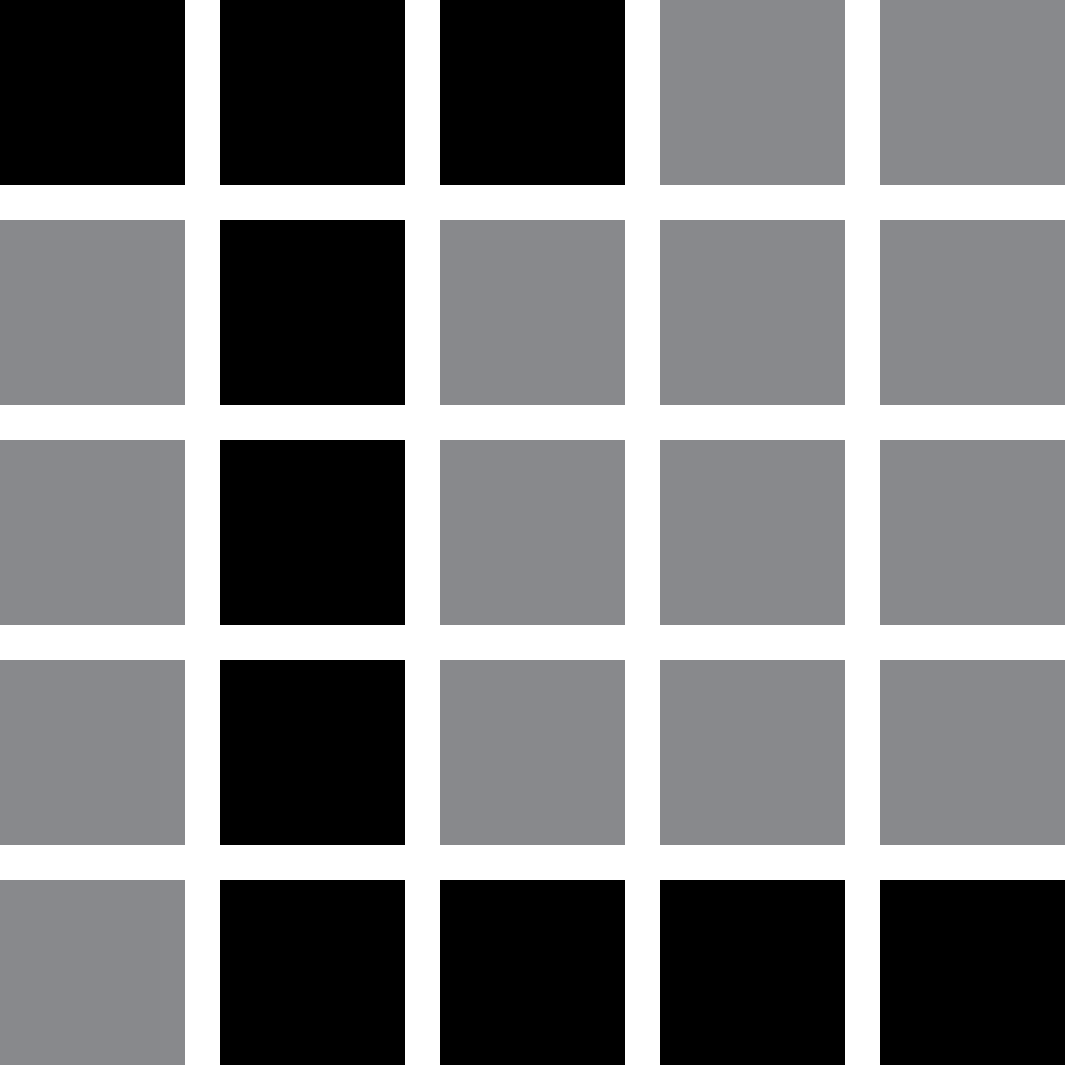
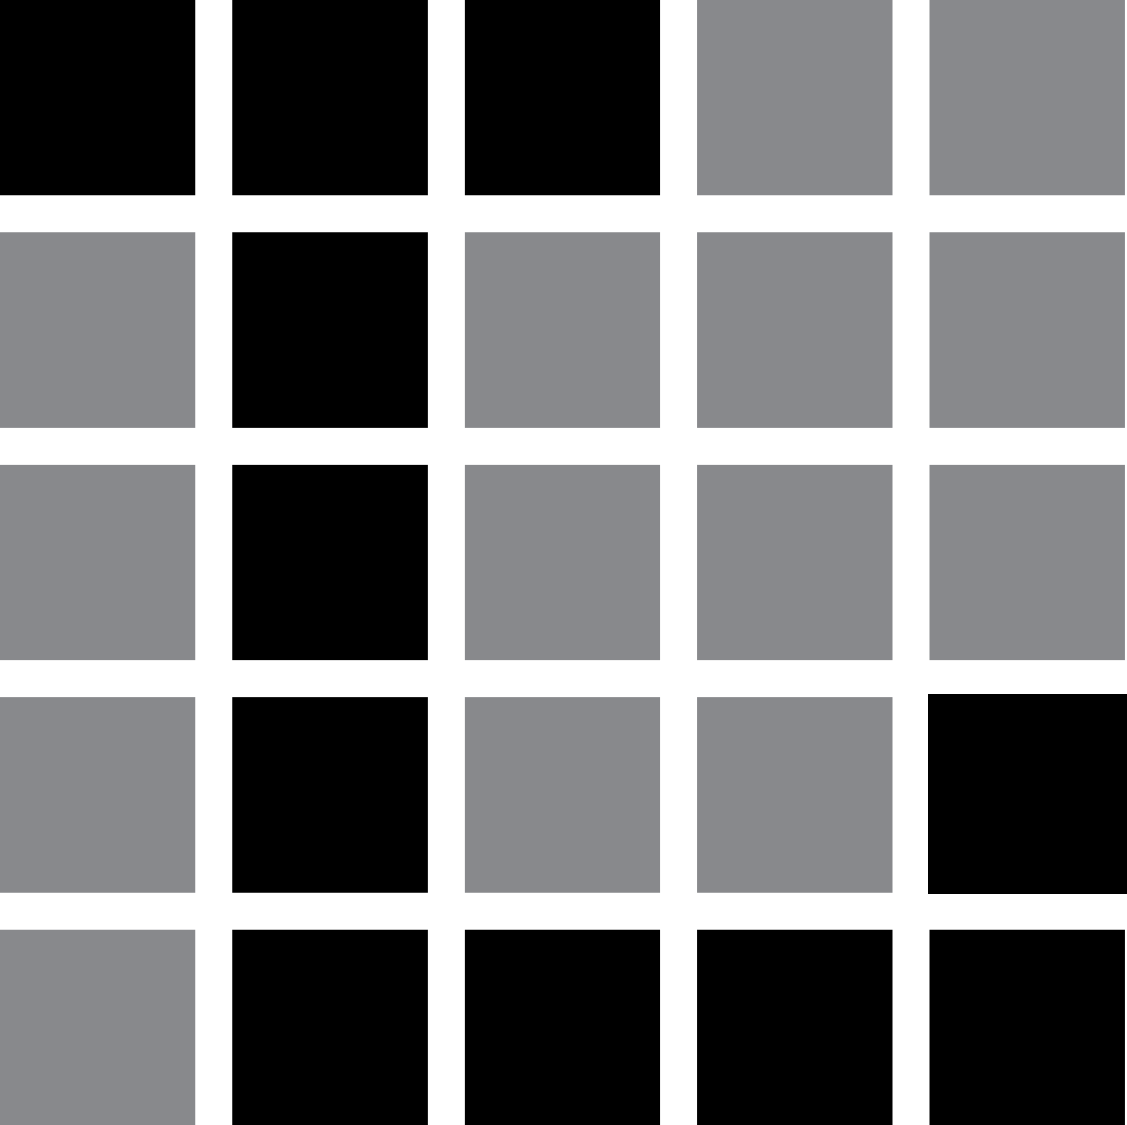
FIX L IMAGE AND LETTER ALGORITHM

Changed region(s): [[0.8041, 0.6197, 1.0, 0.8056]]

diff --git a/js/letterAlgorithms.js b/js/letterAlgorithms.js
@@ -224,7 +224,7 @@ var algorithmL = function(submittedSequence) {
         1,1,1,0,0,
         0,1,0,0,0,
         0,1,0,0,0,
-        0,1,0,0,0,
+        0,1,0,0,1,
         0,1,1,1,1,
     ];
 
